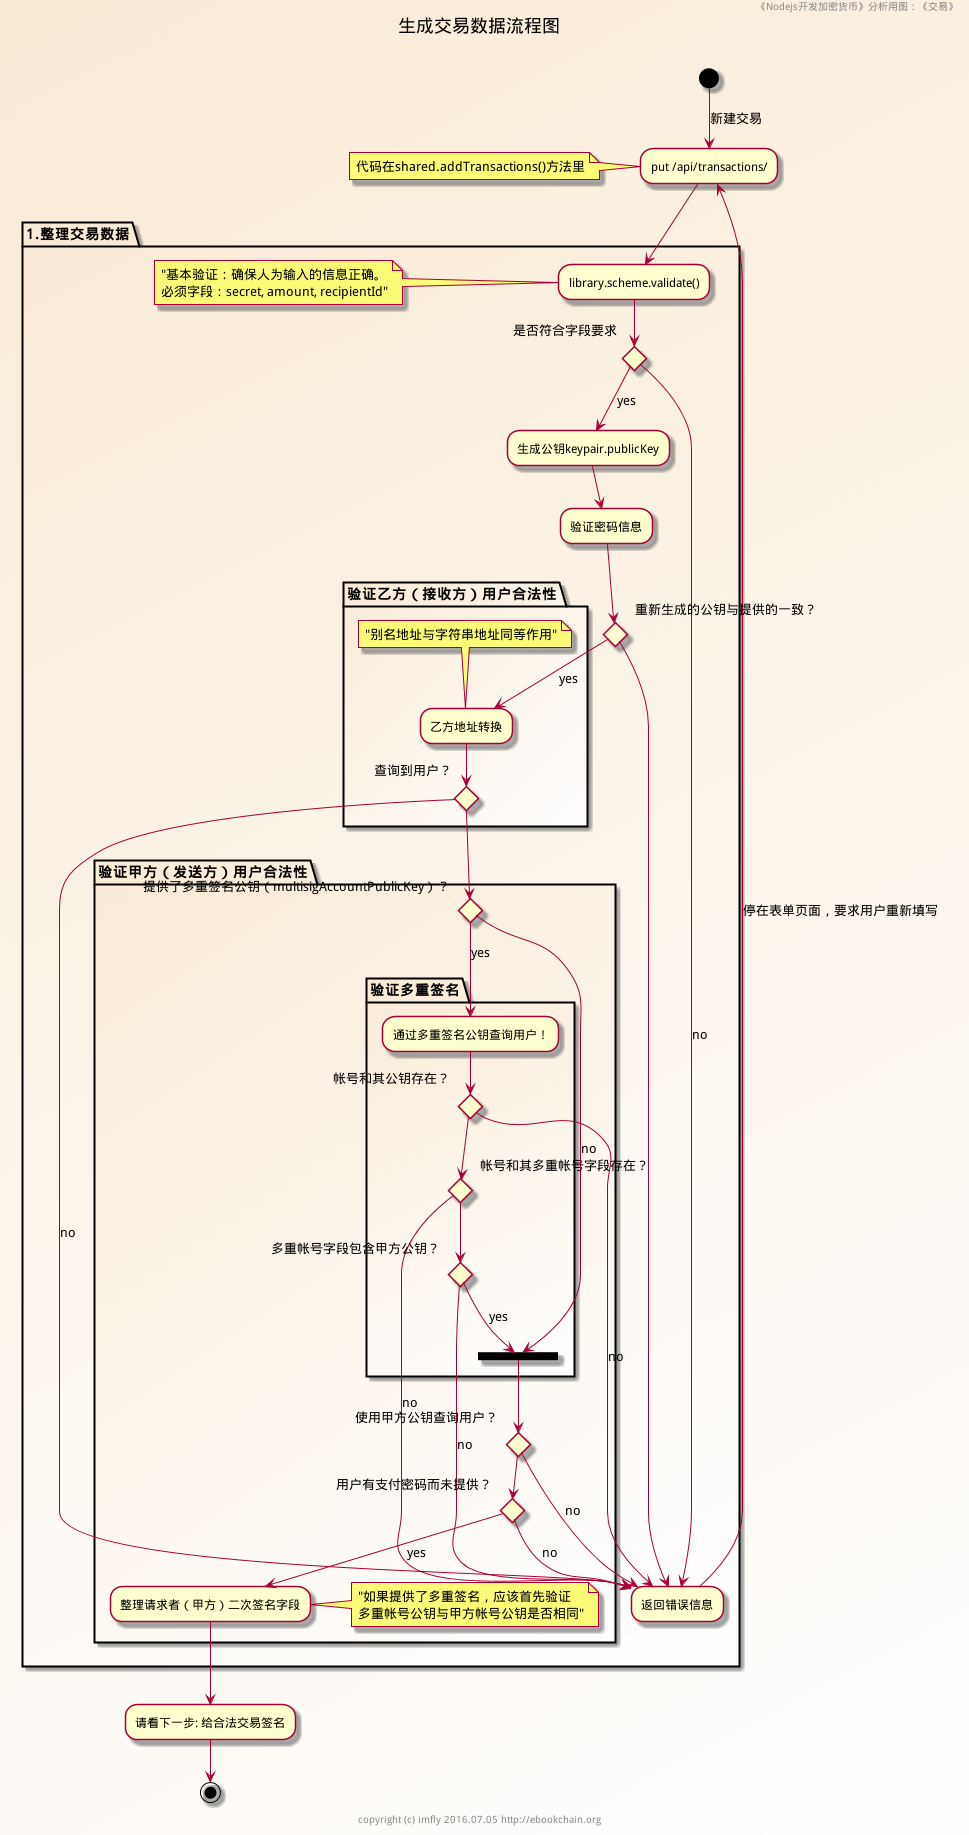
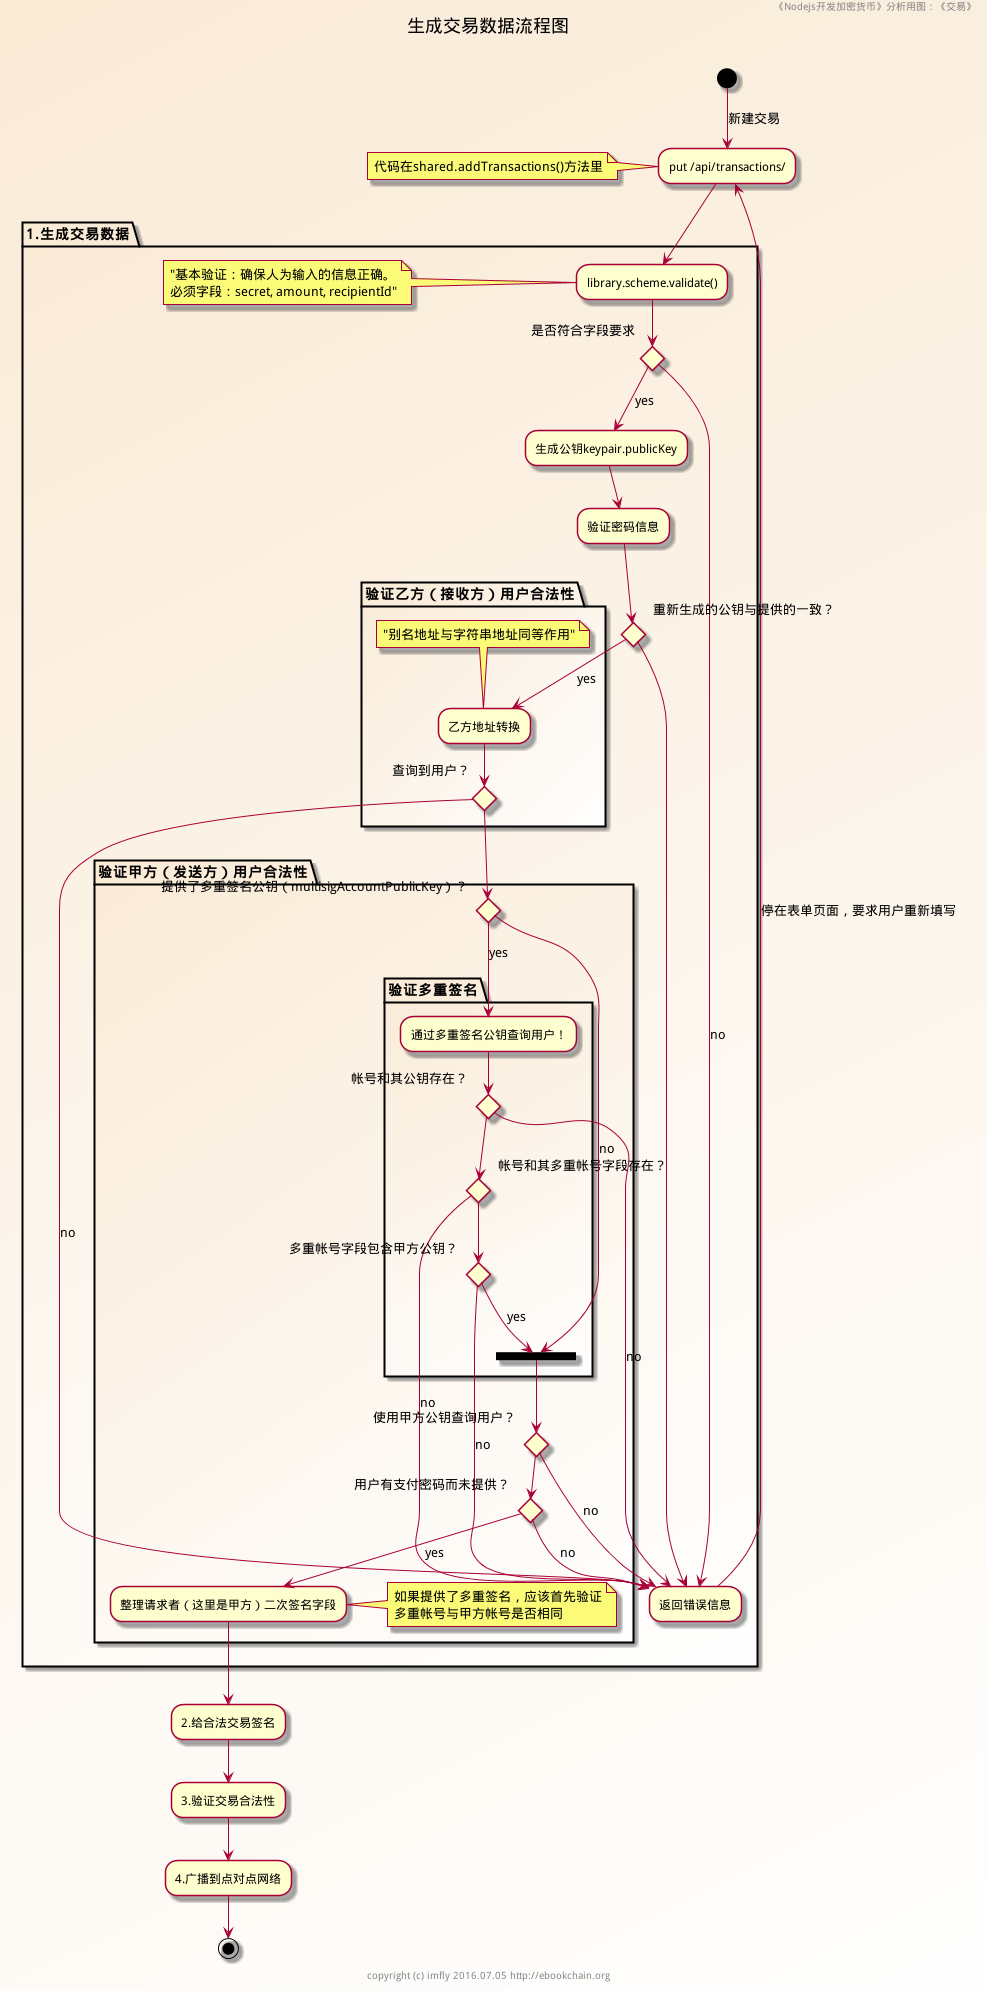
校对修改第19篇

diff --git a/3-源码解读/7-交易.md b/3-源码解读/7-交易.md
@@ -2,9 +2,9 @@
 
 ## 前言
 
-我们在第一部分《了解加密货币》里说过，加密货币是“利益”转移的程序化，其核心目标是保证数字财富或价值安全、透明、快速的转移，因此，加密货币的核心就是`交易`，加密解密、P2P网络、区块链等一系列技术都是围绕交易展开的。
+我们在第一部分《了解加密货币》里说过，加密货币是“利益”转移的程序化，其核心目标是保证数字财富或价值安全、透明、快速的转移。因此，交易是加密货币系统中最重要的部分，加密货币的核心就是`交易`，加密解密、P2P网络、区块链等一系列技术都是围绕交易展开的。
 
-这一篇，我们就来研究亿书提供的交易类型及代码实现，集中总结一个交易的生命周期及操作流程，把我们在《地址》和《签名和多重签名》里故意漏掉的判断逻辑补充完整。
+这一篇，我们就来研究亿书提供的交易类型及代码实现，集中总结交易的生命周期及实现过程，把我们在《地址》和《签名和多重签名》里故意漏掉的判断逻辑补充完整。
 
 ## 源码
 
@@ -24,37 +24,37 @@ transactions.js https://github.com/Ebookcoin/ebookcoin/blob/v0.1.3/modules/trans
 
 从经济学角度来说，交易就是一种价值交换。在《精通比特币》（见参考）一书里，作者是这样定义比特币交易的：简单地说，交易是指把比特币从一个地址转到另一个地址。更准确地说，一笔“交易”就是一个经过签名运算的，表达价值转移的数据结构。每一笔“交易”都经过比特币网络传输，由矿工节点收集并封包至区块中，永久保存在区块链某处。
 
-交易，在汉语词典里，既可以是名词，也就是代表交易内容的数据信息（技术上就是数据结构），又可以是动词，代表一个操作过程。把这些重要信息汇总到一起，既让用户容易理解，又要体现加密货币特点，可以这样定义一个交易操作：
+交易，在汉语词典里，既可以是名词，代表交易内容的数据信息（技术上叫做数据结构），又可以是动词，代表一个操作过程。把这些重要信息汇总到一起，既让用户容易理解，又要体现加密货币特点，可以这样定义一个交易操作：
 
-> 加密货币的交易是指人们通过加密货币网络，把加密货币进行有效转移，
-> 并把交易数据由点对点网络保存到区块链的过程。
+> 加密货币交易是指人们通过加密货币网络，把加密货币进行有效转移，
+> 并把交易数据保存到区块链的过程。
 
-即便简化定义，对于刚刚接触加密货币的小伙伴来说，理解起来，还是有点费解。通常，大家喜欢把加密货币的交易，比做纸质支票。与支票相似，一笔加密货币交易其实是一个有着货币转移目的的工具，这个工具只有在交易被执行时才会在金融体系中体现，而且交易发起人并不一定是签署该笔交易的人。支票本身就是记录一笔交易的数据结构，从签署支票到兑付完成的过程就是一个交易操作行为。
+这个定义与我们的直观感受比较接近。通常，大家喜欢把加密货币交易，比做纸质支票，支票本身就是记录一笔交易的数据结构，从签署支票到兑付完成的过程就是一个交易操作行为。一笔加密货币交易就是一个有着货币转移目的的电子支票，只有在交易被执行时才会在金融体系中体现，而且交易发起人并不一定是签署该笔交易的人。
 
 交易可以被任何人在线上或线下创建，即便创建这笔交易的人不是这个账户的授权签字人。这一点非常好理解，假如有一张空的纸质支票，我们可以自己填写，也可以找人填写，最后只要有支付权限的领导签名，支票就能生效，就可以兑付。加密货币也是如此，无论谁创建的加密货币交易，只要被资金所有者（们）数字签名，交易就能实现。
 
 交易只是一些经过加密处理的字节码，不含任何机密信息、私钥或密码，可被包括wifi、无线电在内的任何网络公开传播，甚至可以被处理成二维码、表情符号、短信等形式发送。只要这笔交易能进入加密货币网络，那么发送者并不需要信任用来传播该笔交易的任何一个网络节点。同时，这些节点也不需要信任发送者，不用记录发送者的任何身份信息。相反，电子商务网站的交易，不仅包含敏感信息，而且依赖加密网络连接完成信息传输。
 
-因此，本质上，加密货币交易是价值所有权的转移，而不是价值转移。加密货币总量就是那些，从始至终都不会变化，人为丢失的是人类使用流通的私钥权限，总量仍在网络上不会丢失。记录加密货币总量的区块链就那一条，这个链条可以越来越长，越来越大，但是增长的仅仅是交易的信息，即价值所有权变更信息。用个不慎确切的比喻，加密货币就像一列永不停息的火车，上下的是人次，固定的是座位，您只有在自己的人生旅途中才拥有某个座位的所有权（使用权）。
+因此，从本质上讲，加密货币交易是价值所有权的变更，价值转移仅仅是这种行为的结果。加密货币总量就是那些，从始至终都不会变化，人为丢失的是人类流通使用的私钥权限，总量仍在网络上不会丢失。记录加密货币总量的区块链就那一条，这个链条可以越来越长，越来越大，但是增加的仅仅是交易信息，即价值所有权变更信息。用个不慎确切的比喻，加密货币就像一列永不停息的火车，上下的是人次，固定的是座位，您只有在自己的人生旅途中才拥有某个座位的所有权（使用权）。
 
-从设计原理上说，加密货币淡化了交易者帐号，简化为输入输出，所谓的账户也只是存在于客户端钱包这类具体的应用层的软件里，就像那列火车总要有火车站吧，而某一段旅程的火车票是有所属的，是要与真实的帐号或身份对应的，所以角色存在于客户端钱包等各类应用软件里。
+从设计原理上说，加密货币淡化了交易者帐号，简化为输入输出，所谓的账户也只是存在于客户端钱包这类具体的应用层的软件里，就像那列火车总要有火车站吧，而某一段旅程的火车票是有具体所属的，是要与现实人的帐号或身份对应的，所以火车站是要记录用户信息，要有检票、验票的过程。
 
 亿书的原理也是如此，只不过亿书通过进一步扩展交易类型，强化了用户帐号的存在，使得更加适合处理各类资产所有权，从而为数字版权保护奠定良好架构基础。
 
 #### 交易生命周期
 
-交易是加密货币系统中最重要的部分，系统中任何其他的部分都是为了确保交易可以被生成、能在网络中得以传播和通过验证，并最终写入全球交易总账簿——区块链。因此，从开发设计角度考虑，一笔加密货币交易必须包括下列过程：
+加密货币的整个系统，都是为了确保正确地生成交易、快速地传播和验证交易，并最终写入全球交易总账簿——区块链而设计。因此，从开发设计角度考虑，一笔交易必须包括下列过程：
 
-1. 生成一笔交易。这里是指一条包含交易双方加密货币地址、数量、时间戳和有效签名等信息的合法交易数据;
+1. 生成一笔交易。这里是指一条包含交易双方加密货币地址、数量、时间戳和有效签名等信息，而且不含任何私密信息的合法交易数据;
 2. 广播到网络。几乎每个节点都会获得这笔交易数据。
-3. 验证交易合法性。生成交易的节点和其他节点的都要验证，没有提供验证的交易，是不能进入加密货币网络的。
+3. 验证交易合法性。生成交易的节点和其他节点都要验证，没有得到验证的交易，是不能进入加密货币网络的。
 4. 写入区块链。
 
 下面，我们来详细阅读分析亿书的交易是如何实现的。
 
 #### 亿书交易类型
 
-亿书已经完成或正在开发的交易类型，目前包括14种（后续会有更多），分别是：
+目前，亿书已经完成或正在开发的交易类型，包括14种（后续会有更多），分别是：
 
 ```
 // helpers/transaction-types.js
@@ -86,11 +86,11 @@ module.exports = {
 
 #### 交易基本流程
 
-亿书交易类型尽管多样，但是交易的基本逻辑是一样的。加密货币的整体设计就是为了安全交易，整个加密货币都是交易逻辑的有效组成部分，要比传统电子商务网站复杂的多，但与交易直接相关的代码，却又非常简单清晰。结合加密货币交易实现基本需求，完整实现一笔交易，亿书需要这样几个步骤：
+亿书交易类型尽管多样，但是交易的基本逻辑是一样的。整个加密货币都是交易逻辑的有效组成部分，要比传统电子商务网站复杂的多，但与交易直接相关的代码，却又非常简单清晰。从开发角度说，实现一笔交易，亿书需要这样几个步骤：
 
 （1）生成交易数据
 
-交易是人类行为，涉及到甲乙双方（货币发送者和接收者，我们用甲乙方来代替，下文同）和交易数额，这在很多交易，特别是版权交易方面更加重要。甲方是主动发起交易的有效用户，是亿书币的支付方，是交易的支付来源。乙方比较灵活，可以是另一个有合法客户端地址的用户，也可以是亿书系统本身（功能性交易），是亿书币的接收方。
+交易是人类行为，涉及到甲乙双方（货币发送者和接收者，我们用甲乙方来代替，下文同）和交易数额，这在很多交易，特别是版权交易方面更加重要。甲方是主动发起交易的有效用户，是亿书币的支付方，是交易的支付来源。乙方比较灵活，可以是另一个有合法地址的用户，也可以是亿书系统本身（功能性交易），是亿书币的接收方。
 
 简单的一句话就是：谁与谁交易了多少钱。用下面转账交易部分的代码举例，请看`modules/transactions.js`文件里的763和800行，一笔交易必须包含如下字段：
 
@@ -99,7 +99,7 @@ module.exports = {
 * 接受帐号。代码里指的是 recipientId: recipientId, 如果用的是别名地址，就是 recipientUsername: recipientUsername，如果是功能性交易，这里就不需要了;
 * 交易数量。代码里指的是 amount: body.amount。
 
-整理数据的另一个重要过程，就是检验这些交易数据的正确性。这个很好理解，如果一个人胡乱填写接受地址，也能把币发送出去，那就笑话了。但过程较为繁琐，主要涉及到：发起交易的用户是否存在、密钥是否正确、是否多重签名帐号、是否有支付密码，以及接受方用户地址是否合法等，都要逐个检验。
+这些数据有的要求用户输入，比如用户密钥，交易数量等，这些数据是否正确，也是非常关键的事情。这是软件程序验证逻辑的一个重要部分，不可或缺。这个很好理解，如果一个人胡乱填写密钥和接受地址，也能把币发送出去，那就笑话了。但具体校验过程较为繁琐，这里主要涉及到：发起交易的用户是否存在、密钥是否正确、是否多重签名帐号、是否有支付密码，以及接受方用户地址是否合法等，都要逐个检验。
 
 详情看这里的流程图：
 
@@ -107,7 +107,7 @@ module.exports = {
 
 （2）给合法交易签名
 
-一笔合法交易，使用甲乙方的公钥签名，确保交易所属。同时，还要要准确记录它的交易时间戳，方便追溯。交易ID包含了丰富加密信息的字段，需要复杂的生成过程。
+基本信息正确之后，一笔合法交易，还要使用甲乙方的公钥签名，确保交易所属。同时，还要准确记录它的交易时间戳，方便追溯。还要生成交易ID，每个交易ID都包含了丰富的加密信息，需要复杂的生成过程，绝不像传统的网站系统，让数据库自动生成索引就可以充当ID了。
 
 详情看这里的流程图：
 
@@ -115,11 +115,11 @@ module.exports = {
 
 （3）验证交易合法性
 
-这里的交易合法性，除了基本信息正确之外，主要是指确认交易是未确认的交易，也不是用户重复提交的交易，即双花交易。所谓双花交易，通俗的说，就是是用户在交易确认之前，又一次提交了相同交易信息，导致一笔钱花两次，这种情况是必须要避免的。
+通常，一笔交易经过6-10个区块之后，这笔交易被认为是无法更改的，即已确认，因为这时候拒绝、变更的难度已经非常大，理论上已经不可能。这里的交易合法性，除了基本信息正确之外，主要是指保证交易是未确认的交易，也不是用户重复提交的交易，即双花交易。双花交易是加密货币特有的现象，通俗的说，就是用户在交易确认之前（有一段时间，比特币时间更长），又一次提交了相同交易信息，导致一笔钱花两次，这种情况是必须要避免的。
 
-不是先广播到网络，然后让其他节点验证吗？当然是的，但是想象一下，一个看似合法但是无法通过验证的交易，该不该广播到网络上呢？显然不能。所以在广播到网络之前必须验证交易合法性，不合法的交易没有机会广播到网络。节点收到新的交易信息时，要重新验证。如此一来，任何对网络的攻击，都只会影响一个节点，安全性大大提高。
+每笔交易在广播到网络之前必须验证合法性，不合法的交易没有机会广播到网络。节点收到新的交易信息时，要重新验证。如此一来，任何对网络的攻击，都只会影响一个节点，安全性大大提高。
 
-验证合法的交易就可以直接加入区块链了，因此从上面的第一步到现在，都是在一个节点上完成的。这也为下面的广播处理打下基础，一旦交易被广播到网络，在其他节点，这里的验证和处理过程就会重复执行一次。
+验证合法的交易就可以直接加入区块链了，因此从上面的第一步到现在，亿书都是在一个节点上完成的。这也为下面的广播处理打下基础，一旦交易被广播到网络，在其他节点，这里的验证和处理过程就会重复执行一次。
 
 验证的过程，看这里的流程图：
 
@@ -129,11 +129,15 @@ module.exports = {
 
 没有中心服务器，必须借助点对点网络，把交易数据写入分布式公共账本——区块链，保证交易数据永远无法篡改，而且可以轻松查询追溯。这在中心化的服务器上，为了应对个别交易摩擦，保证交易记录可追溯，要采取更多的技术手段，记录更多的数据字段，意味着要保持大量数据冗余，付出更多资金成本。
 
+因为交易数据不含私密信息，对网络没有苛刻要求，因此加密货币的网络可以覆盖很广，对网络的编程也变得灵活很多。理论上，只要能保证联通的便捷和快速，具体设计中不需要考虑更多复杂的因素。当然，就亿书这款产品而言，独有的用户协作和分享功能，对网络编程的性能有自身的要求，就另当别论，这方面将在下一个版本中体现出来。
+
+这里，仅仅是加密货币基础网络功能，交易广播到网络的流程如下：
+
 ![broadcastTransaction-activity.png][]
 
 #### 转账交易分析
 
-前面我们接触到几种交易类型，比如：注册别名地址和多重签名地址，不过并没有研究具体的交易过程，下面通过分析`转账交易`来学习整个交易、验证的过程。
+前面几篇，我们接触到几种交易类型，比如：注册别名地址和多重签名地址，不过并没有研究具体的交易过程，下面通过分析`转账交易`来学习整个交易、验证的过程。
 
 代码实现在`modules/transactions.js`文件里，主要Api如下：
 
@@ -161,7 +165,7 @@ get /api/transactions/unconfirmed -> shared.getUnconfirmedTransactions
 put /api/transactions/ -> shared.addTransactions
 ```
 
-我们仍然把读取数据的Api放一放，因为他们很简单，重点掌握写数据的操作，`put /api/transactions/`，对应方法`shared.addTransactions`，完整代码如下：
+我们仍然把读取数据的Api放一放，因为他们很简单，重点掌握写数据的操作，`put /api/transactions/`，对应方法`shared.addTransactions`，代码如下：
 
 ```
 // 652行
@@ -218,7 +222,7 @@ shared.addTransactions = function (req, cb) {
 
 		var query = {};
 
-		// 乙方（接收方）地址转换
+		// 乙方（接收方）地址转换，保证可以用户名转账
 		var isAddress = /^[0-9]+[L|l]$/g;
 		if (isAddress.test(body.recipientId)) {
 			query.address = body.recipientId;
@@ -274,7 +278,7 @@ shared.addTransactions = function (req, cb) {
 								return cb("Invalid second passphrase");
 							}
 
-							// 甲方帐号公钥与多重签名帐号公钥是不一样的
+							// 甲方帐号公钥与多重签名帐号公钥是不一样的（因为两个账户是不一样的）
 							if (requester.publicKey == account.publicKey) {
 								return cb("Invalid requester");
 							}
@@ -322,7 +326,7 @@ shared.addTransactions = function (req, cb) {
 // 337行
 Transactions.prototype.processUnconfirmedTransaction = function (transaction, broadcast, cb) {
 	modules.accounts.setAccountAndGet({publicKey: transaction.senderPublicKey}, function (err, sender) {
-		// 这是个闭包，在下面的程序运行结束的时候，最后才调用
+		// 这是个闭包，在下面的程序运行结束的时候才调用，因此是验证完毕，才写入区块链、广播到网络
 		function done(err) {
 			if (err) {
 				return cb(err);
@@ -373,11 +377,11 @@ Transactions.prototype.processUnconfirmedTransaction = function (transaction, br
 
 ## 总结
 
-这里的编码逻辑非常清晰，但是具体开发起来，却是非常核心的部分，需要比较深厚的开发功底。大量的回调和验证，也给这样复杂的编程带来很多困扰。因此，好好熟悉基本编码技巧，从小处着手打好基础很重要。
+这里的编码逻辑非常清晰，但作为非常核心的部分，使用了大量编程技巧，需要比较熟练的开发技能。代码中涉及到大量的回调和验证，有的回调嵌套很深，需要对异步较为深入的理解，掌握熟练的回调处理方法，不然理解和编码都会有很多困扰。因此，好好熟悉基本编码技巧，从小处着手打好基础很重要。
 
-本文涉及的流程图非常复杂，我也花费了大量时间去处理，但是很多细节仍然无照顾到，也无法保证有错误疏漏的地方，请看到问题的小伙伴技术反馈给我。
+本文涉及的流程图相对比较复杂，为了印刷方便，我把完整的流程图拆分成为四张，处理过程花费了大量时间，但是很多细节仍然无法照顾到，也无法保证没有错误和疏漏，请看到问题的小伙伴及时反馈给我。
 
-交易是怎么写入区块链的，上面仅仅提到了，但是并不够详细和深入，因为简单的论述并不能解释清楚区块链的原理，还是专门拿出一篇来，详细讲述比较好。而且，作为目前加密货币的“网红”，区块链也值得我们好好研究研究。请看下一篇：**《神秘的区块链》**
+交易是怎么写入区块链的，上面仅仅点到为止，不够详细和深入。为了进一步阐述区块链的原理，需要专门拿出一篇来，详细讲述。而且，作为目前加密货币的“网红”，区块链也值得我们好好研究。请看下一篇：**《神秘的区块链》**
 
 ## 链接
 
